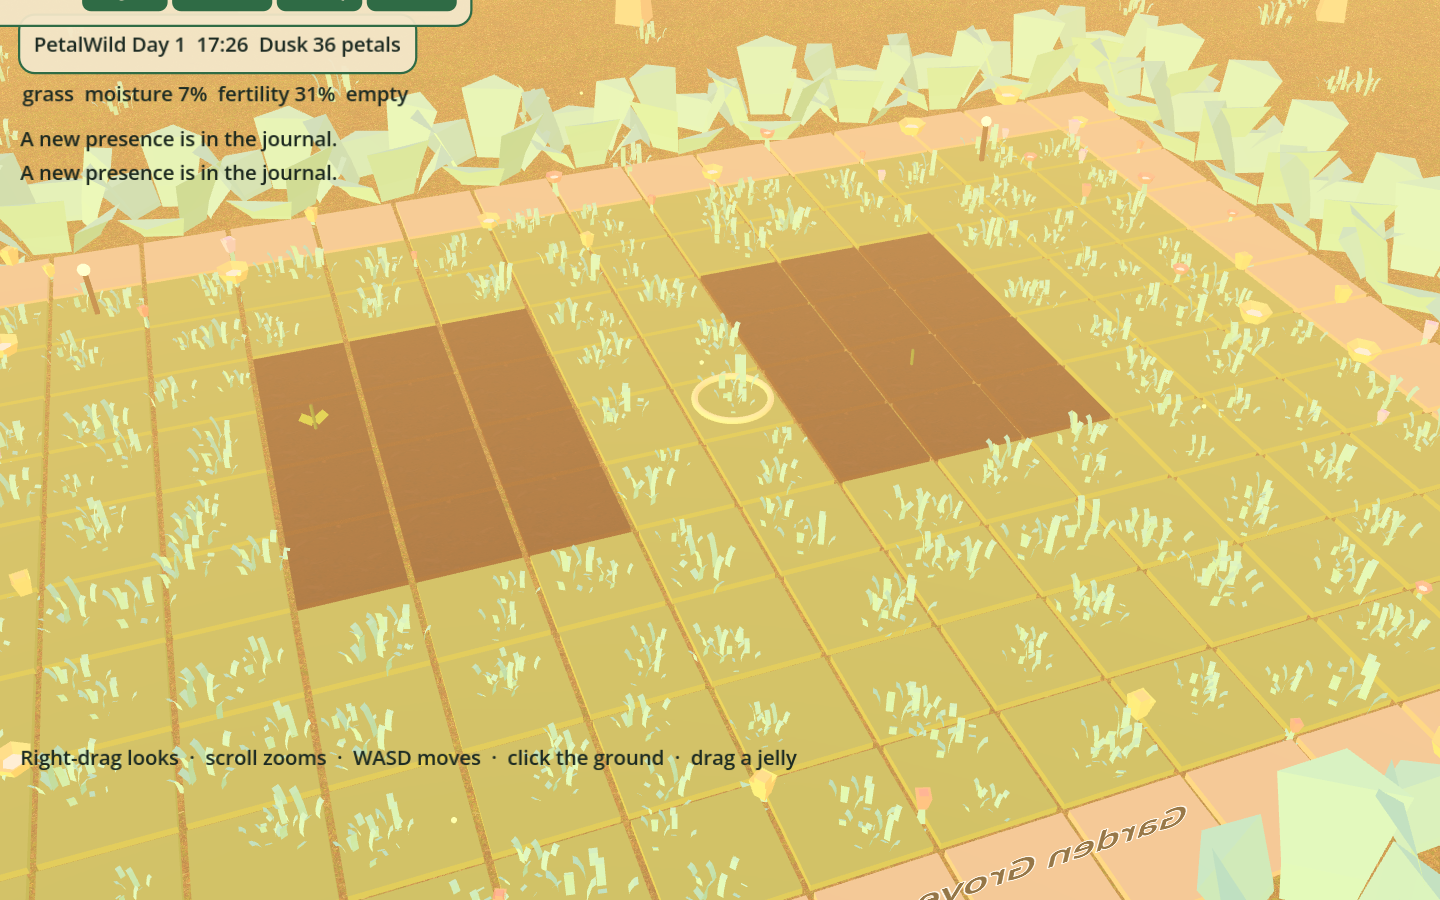
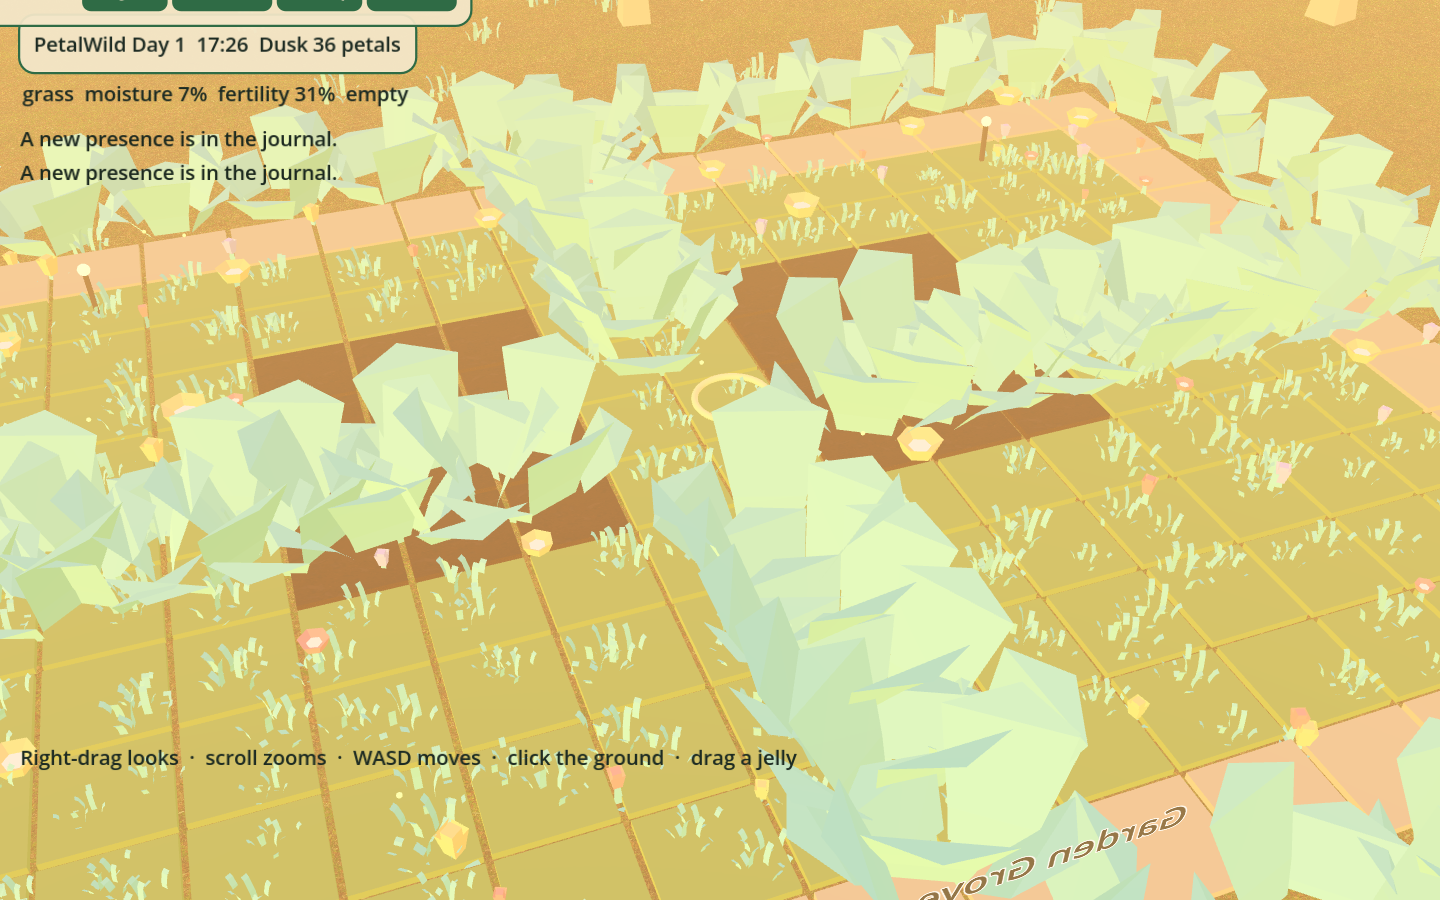
Note the sidelined grove forest bed without switching scenes.
Hedge Hollow stays the running scene. The Kenney presentation scripts keep their hedge cross and the CC0 loop, and they are not what main.tscn launches.

diff --git a/docs/VISUAL_GAP.md b/docs/VISUAL_GAP.md
@@ -1,15 +1,13 @@
 # Visual gap
 
-Compared on 2026-09-22. Game shots are in `docs/screenshots/`. Targets are `docs/reference/petalwild_target_garden_01.png` and `petalwild_target_garden_02.png`.
+Compared on 2026-09-22 after the hedge-room pass. Running scene shots: `docs/screenshots/petalwild_overview.png`, `petalwild_creature.png`, `petalwild_person.png`. Targets: `docs/reference/petalwild_target_garden_01.png` and `petalwild_target_garden_02.png`.
 
-The playable grove has a hedge ring, Kenney trees, a west pond and bridge, flower clumps, a blue-striped stall, a white shed with a red roof, soil and grass plots, and a paper HUD. Golden-hour, night, and rain shots change the sky. Cara stands at the stall as a carrot cone. Sunburst reads as a glossy green body with a face.
+The running grove now has an outer bush ring, a cross of taller bushes that splits the terrace into four beds, flowers inside those beds, a pitched blue-and-cream stall roof, a west pond, and a carrot-shaped Cara with a wider leaf crown. Sunburst is a stacked pear with a side leaf rather than one sphere. The CC0 forest loop is the music bed when the file loads.
 
 ## Three largest gaps
 
-1. **Composition and density.** The target is a sunken garden of mature hedge rooms, flower rows, vegetable beds, and a deep tree mass. The build is a gridded terrace with a hedge perimeter and a ring of stylised trees. Ground cover is thin, and the plots still read as game tiles. Owner: PETAL_05, with PETAL_13 for CC0 path and hedge meshes.
+1. **Hedge surface.** The rooms are rows of the same Kenney bush. The concepts are thick, leafy, uneven walls that enclose a sunken garden. Owner: PETAL_05, with PETAL_13 if a CC0 hedge mesh beats another copy of `plant_bushLarge`.
 
-2. **Cast and stall.** The concept veg people are small authored figures among the plants. Cara is a cone with leaves. Sunburst does not yet have a strong non-spherical silhouette. The stall is a box with a stripe texture, not the built blue-and-white hut. Owners: PETAL_04 for veg people, PETAL_03 for jelly forms, PETAL_05 for the stall mesh.
+2. **Cast.** Cara is still a cone with a leaf crown and a flat apron. Sunburst is still built from scaled spheres. The concept people are small authored figures, and the jellies need silhouettes that read at a distance. Owners: PETAL_04 and PETAL_03.
 
-3. **Light.** The concept is warm, shadowed, and hazy, with sun on the leaves. This machine renders with llvmpipe and the GL Compatibility renderer, so shadows are off. Golden hour is a sky gradient and an orange directional light, without contact shadows or sun shafts. Owner: PETAL_06, limited to what the compatibility renderer can do. Do not turn on Forward+ features that this pin cannot run.
-
-These gaps are assigned by the executive because the local Hailo router had no device to score. See `tools/orchestration/MODEL_SELECTION.md`.
+3. **Light and ground.** Golden hour is a sky gradient. This VM is llvmpipe, so shadows stay off and there are no sun shafts. The plots are still flat tiles. Owner: PETAL_06 for the light that GL Compatibility can do, PETAL_05 for breaking the tile read without a second renderer.

diff --git a/docs/PETALWILD_MASTER_STATE.md b/docs/PETALWILD_MASTER_STATE.md
@@ -32,16 +32,17 @@ This machine has no Vulkan surface. Godot falls back to OpenGL 3 / llvmpipe. Aud
 
 ## Broken or not built
 
-- The garden does not yet look like the concept plates. See the gap list below.
-- Bellhelp’s blossom still reads as one glossy sphere in the close shot.
+## Broken or not built
+
+- The garden does not yet look like the concept plates. See the visual compare below.
+- Bellhelp’s blossom still reads as one glossy body in the close shot.
 - Veg People are readable primitives, not an authored cast.
-- No hedge rooms, no sun shafts, no insect or bird life.
+- No sun shafts, insects, or birds.
 - City, venues, and the agent civilisation are a single parish record (`data/district.json`, Hedge Hollow, phase A).
 - Tiers 3 and 4 of the simulation are specified, not simulated.
 - Trust cannot research, draft, or act outside the process.
-- No CC0 environment pack imported yet.
 - Large-text setting applies on the title screen, not live in the garden HUD.
-- Smoke quits during `_ready` and leaks a handful of canvas items. The check itself passes.
+- The sidelined Kenney grove (`scripts/presentation/`) now plays the CC0 forest loop. The running scene still uses procedural tones. This VM has no sound card.
 
 ## Agents
 
@@ -73,4 +74,6 @@ Three largest gaps still open:
 
 ## Next integration
 
-Keep this build playable. The next pass stays inside the running garden scene, then recaptures the six shots. Do not open a side demo.
+## Next integration
+
+Keep this build playable. The next pass stays inside `scenes/main.tscn` (Hedge Hollow): a leafy hedge surface, Bellhelp’s face on the bell, and Lumen’s hands. Do not open a side demo. The Kenney/Cara grove in `scripts/presentation/` is not the running scene.

diff --git a/ASSET_PROVENANCE.md b/ASSET_PROVENANCE.md
@@ -14,7 +14,7 @@ Downloaded bytes kept: 26,864,773 (25.62 MiB) before Godot import sidecars.
 | Flower Scattered Dirt 1K | Dimitrios Savva | https://polyhaven.com/a/flower_scattered_dirt | CC0 | 2026-09-22 | JPG 1K only | Soil albedo | None |
 | Forest Leaves 02 1K | Rob Tuytel | https://polyhaven.com/a/forest_leaves_02 | CC0 | 2026-09-22 | JPG 1K only | Reserved | None |
 | Forest Leaves 03 1K | Rob Tuytel, Dimitrios Savva | https://polyhaven.com/a/forest_leaves_03 | CC0 | 2026-09-22 | JPG 1K only | Reserved | None |
-| Forest Ambience | Slobad | https://opengameart.org/content/forest-ambience | CC0 1.0 | 2026-09-22 | None | Not wired into the bed yet | None |
+| Forest Ambience | Slobad | https://opengameart.org/content/forest-ambience | CC0 1.0 | 2026-09-22 | None | Music bed in `petal_audio.gd` when the mp3 loads | None |
 | Stylized Garden demo | Asset Quest (Melissa) | https://assetquest.itch.io/stylized-garden-asset-pack | CC0 1.0 | 2026-09-22 | Unzipped only. Not placed in the running grove | `third_party/incoming/assetquest-stylized-garden-demo/`. 13 FBX props and plant atlases. Credit is optional | None. Credit kept in CREDITS.md |
 | Inter | The Inter Project Authors | https://github.com/rsms/inter | SIL OFL 1.1 | 2026-09-22 | None | `assets/fonts/`. Brought in with the Hedge Hollow scene | Keep `assets/fonts/OFL-Inter.txt` with the fonts |
 
